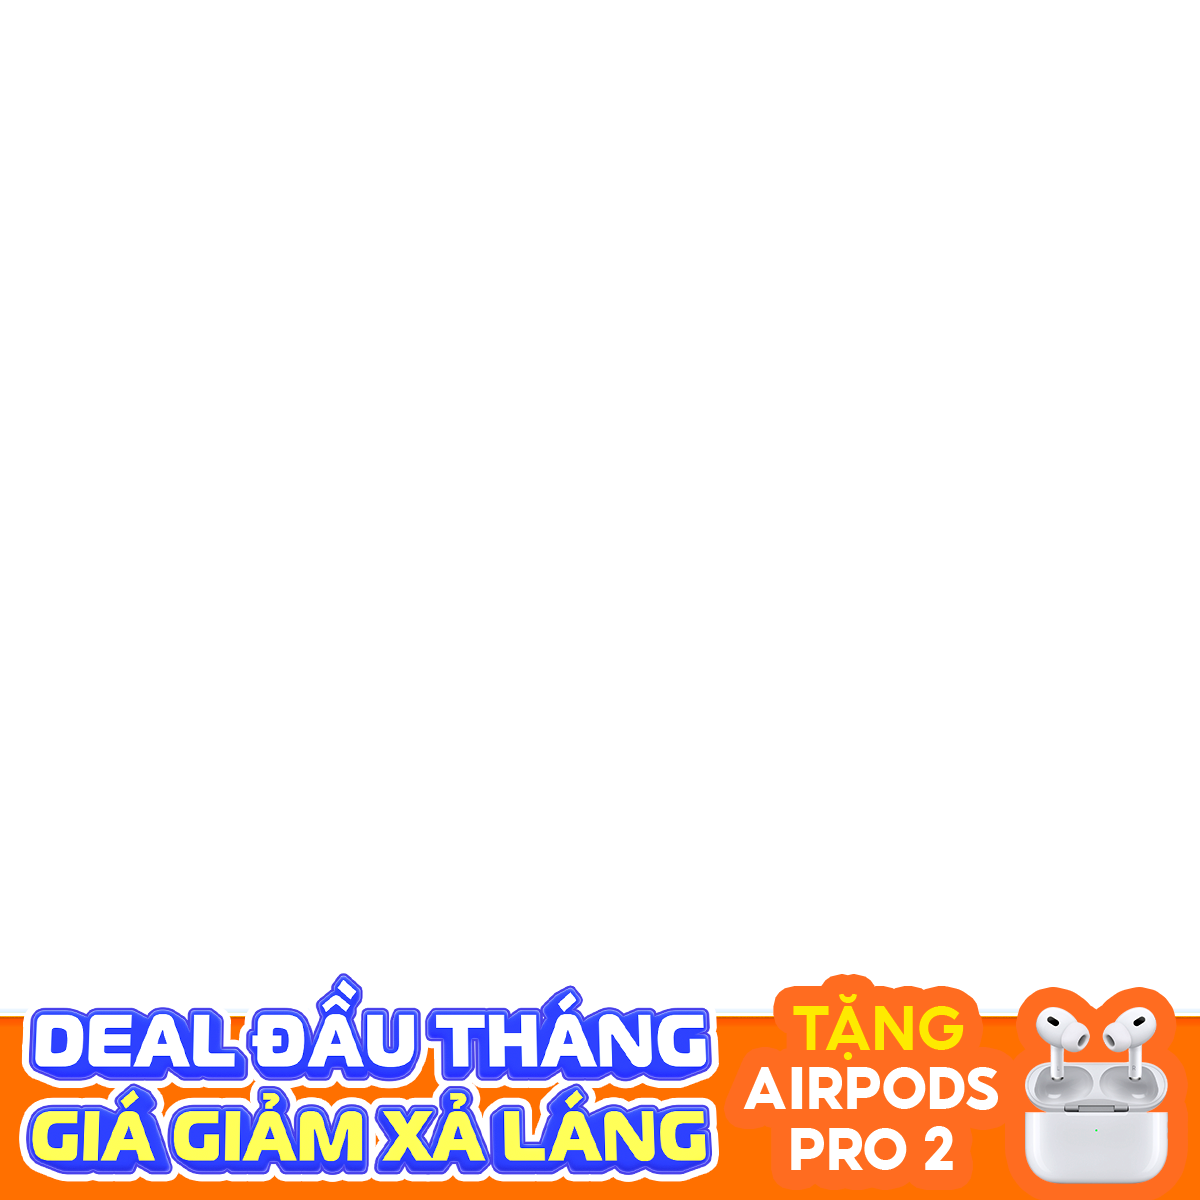
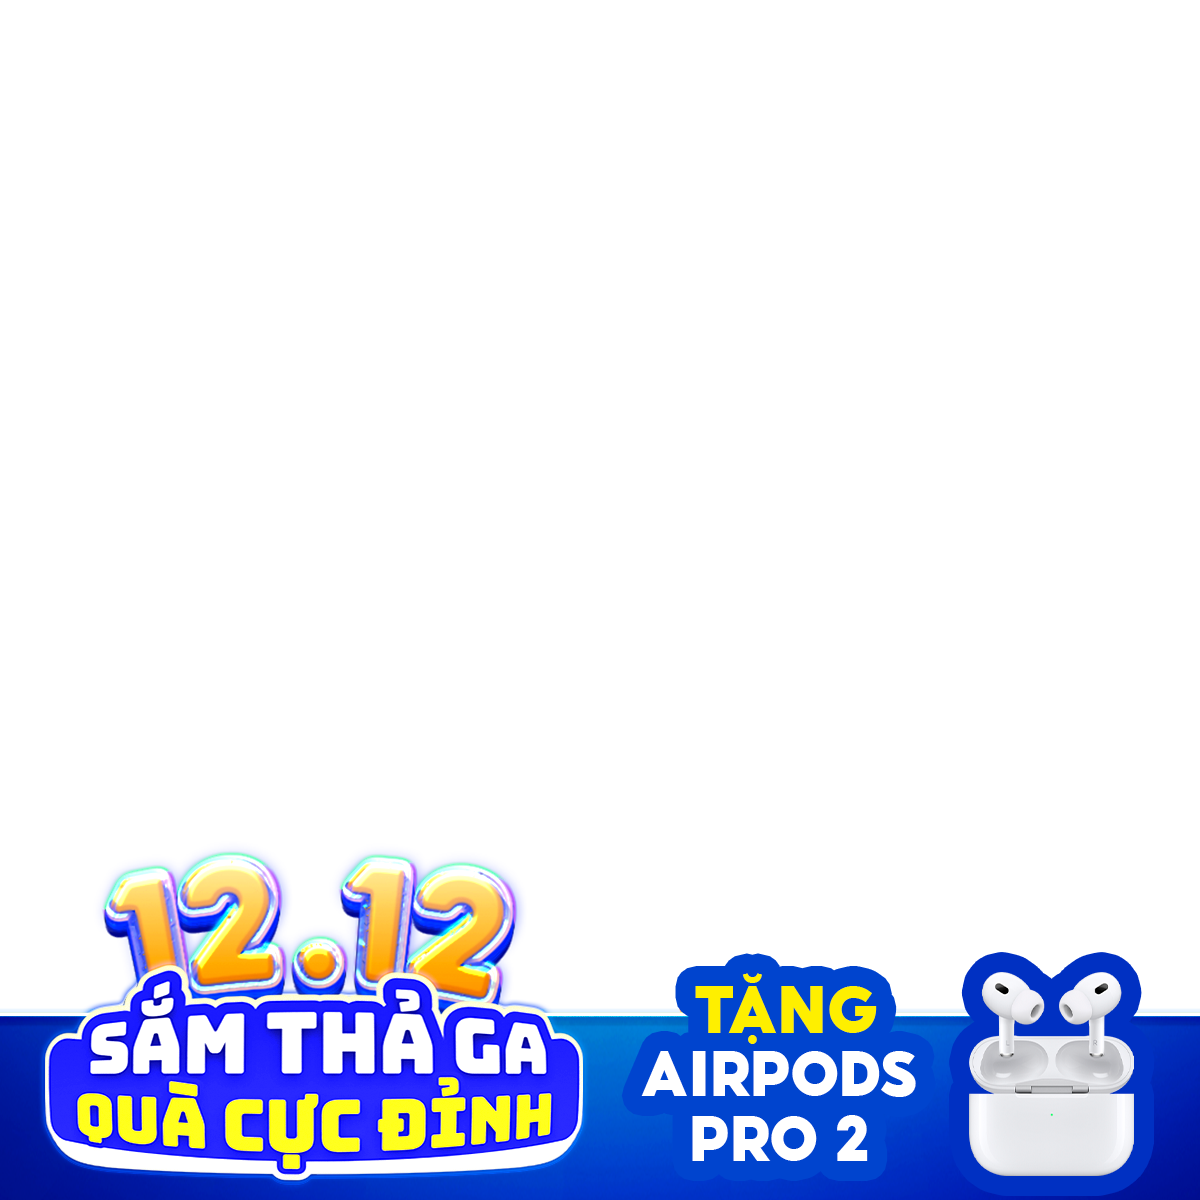
a

Changed region(s): [[0.0, 0.7092, 1.0, 1.0]]

diff --git a/src/app/sale-12-12/page.tsx b/src/app/sale-12-12/page.tsx
@@ -18,14 +18,15 @@ import { Swiper, SwiperSlide } from "swiper/react";
 import "swiper/css";
 const categories = [
   // { id: "item-hot", name: "Giá sốc" },
-  { id: "item-toy11", name: "Mua 1 tăng 1" },
-  { id: "item-toy", name: "Phụ Kiện" },
-  { id: "item-iphone", name: "iPhone" },
-  { id: "item-ipad", name: "iPad/Macbook" },
+  // { id: "item-toy11", name: "Mua 1 tăng 1" },
+
+  { id: "item-iphone", name: "Sản phẩm nổi bậc" },
+  // { id: "item-ipad", name: "iPad/Macbook" },
   { id: "item-airpods", name: "Máy 99%" },
 
   { id: "item-mac", name: "Samsung" },
   { id: "item-android", name: "Oppo/Xiaomi/Laptop" },
+  { id: "item-toy", name: "Phụ Kiện" },
 ];
 export default function Page() {
   const swiperRef = useRef<any>(null);
@@ -107,7 +108,7 @@ export default function Page() {
     <div
       className="page-sale-thang-12-12"
       style={{
-        backgroundColor: "#e2e5ff",
+        backgroundColor: "#000b6b",
       }}
     >
       <div style={{ position: "relative", overflow: "hidden" }}>
@@ -121,18 +122,16 @@ export default function Page() {
         {/* <div id="item-hot">
           <ProductList />
         </div> */}
-        <div id="item-toy11">
+        {/* <div id="item-toy11">
           <ToyList11 />
-        </div>
-        <div id="item-toy">
-          <ToyList12 />
-        </div>
+        </div> */}
+
         <div id="item-iphone">
           <AppleList />
         </div>
-        <div id="item-ipad">
+        {/* <div id="item-ipad">
           <IpadList />
-        </div>
+        </div> */}
         <div id="item-airpods">
           <ProductPercent />
         </div>
@@ -146,7 +145,9 @@ export default function Page() {
         <div id="item-android">
           <AndroidList />
         </div>
-
+        <div id="item-toy">
+          <ToyList12 />
+        </div>
         <div
           className={`sticky-category ${
             isStickyVisible ? "visible" : "hidden"

diff --git a/src/components/ComponentSale1212/99percent/index.tsx b/src/components/ComponentSale1212/99percent/index.tsx
@@ -393,9 +393,7 @@ const ProductPercent: React.FC = () => {
         <div className="upgrade-list">
           <div className="container">
             <div>
-              <div
-                style={{ border: "10px solid #002aa1", borderRadius: "20px" }}
-              >
+              <div>
                 <div className="women-decor" style={{ padding: "10px 0px" }}>
                   {dataTitle ? (
                     dataTitle?.data?.Slider?.items[0]?.Banner?.items

diff --git a/src/components/ComponentSale1212/laptop/index.tsx b/src/components/ComponentSale1212/laptop/index.tsx
@@ -245,9 +245,7 @@ const LaptopList: React.FC = () => {
         <div className="upgrade-list">
           <div className="container">
             <div>
-              <div
-                style={{ border: "10px solid #002aa1", borderRadius: "20px" }}
-              >
+              <div>
                 <div className="women-decor" style={{ paddingBottom: "20px" }}>
                   {dataTitle ? (
                     dataTitle?.data?.Slider?.items[0]?.Banner?.items

diff --git a/src/components/ComponentSale1212/android/index.tsx b/src/components/ComponentSale1212/android/index.tsx
@@ -355,9 +355,7 @@ const AndroidList: React.FC = () => {
         <div className="upgrade-list">
           <div className="container">
             <div>
-              <div
-                style={{ border: "10px solid #002aa1", borderRadius: "20px" }}
-              >
+              <div>
                 <div className="women-decor" style={{ padding: "10px 0px" }}>
                   {dataTitle ? (
                     dataTitle?.data?.Slider?.items[0]?.Banner?.items

diff --git a/src/components/ComponentSale1212/apple/index.tsx b/src/components/ComponentSale1212/apple/index.tsx
@@ -336,9 +336,7 @@ const AppleList: React.FC = () => {
         <div className="upgrade-list">
           <div className="container">
             <div>
-              <div
-                style={{ border: "10px solid #002aa1", borderRadius: "20px" }}
-              >
+              <div>
                 <div className="women-decor" style={{ paddingBottom: "20px" }}>
                   {dataTitle ? (
                     dataTitle?.data?.Slider?.items[0]?.Banner?.items

diff --git a/src/components/ComponentSale1212/toy/index.tsx b/src/components/ComponentSale1212/toy/index.tsx
@@ -300,9 +300,7 @@ const AppleList: React.FC = () => {
         <div className="upgrade-list">
           <div className="container">
             <div>
-              <div
-                style={{ border: "10px solid #002aa1", borderRadius: "20px" }}
-              >
+              <div>
                 <div className="women-decor" style={{ paddingBottom: "20px" }}>
                   {dataTitle ? (
                     dataTitle?.data?.Slider?.items[0]?.Banner?.items

diff --git a/src/components/ComponentSale1212/banner/index.tsx b/src/components/ComponentSale1212/banner/index.tsx
@@ -243,7 +243,7 @@ function HeaderHalloween() {
             padding: "10px",
             background: "#002aa1",
             borderRadius: "10px",
-            marginTop: "20px",
+            margin: "20px 0px",
           }}
         >
           <div
